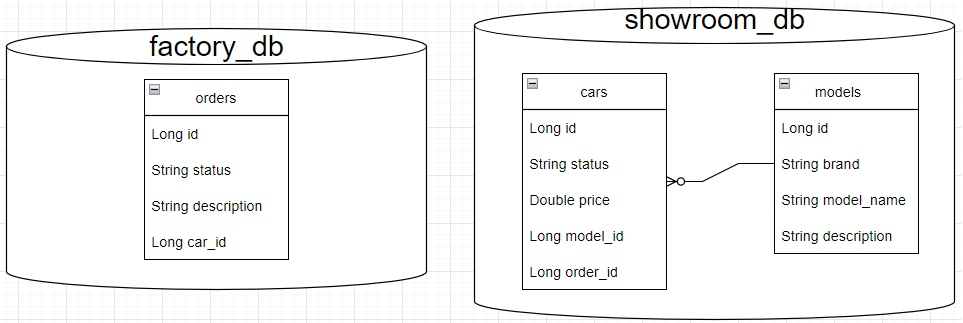
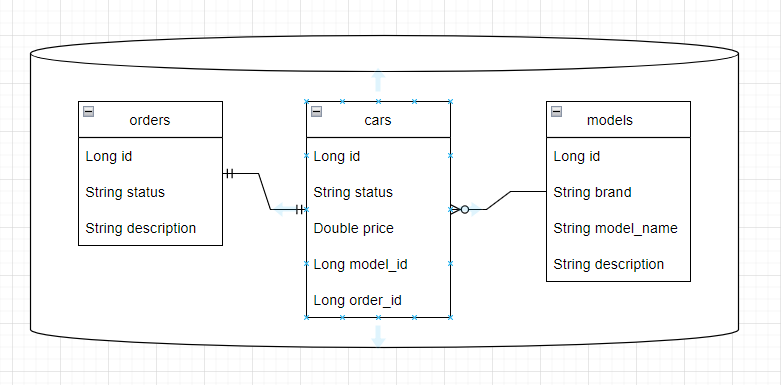
IMPORTANT_UPDATE: Two databases replaced by one, migrations removed to common module

diff --git a/factory/src/main/java/com/zuzex/factory/service/Impl/OrderServiceImpl.java b/factory/src/main/java/com/zuzex/factory/service/Impl/OrderServiceImpl.java
@@ -1,8 +1,26 @@
 package com.zuzex.factory.service.Impl;
 
+import com.zuzex.factory.model.Order;
 import com.zuzex.factory.service.OrderService;
+import org.springframework.stereotype.Service;
 
+import java.util.List;
+
+@Service
 public class OrderServiceImpl implements OrderService {
 
+    @Override
+    public List<Order> findAll() {
+        return null;
+    }
 
+    @Override
+    public Order assembleCar(Long orderId) {
+        return null;
+    }
+
+    @Override
+    public Order deliverCar(Long orderId) {
+        return null;
+    }
 }

diff --git a/factory/src/main/java/com/zuzex/factory/controller/OrderController.java b/factory/src/main/java/com/zuzex/factory/controller/OrderController.java
@@ -23,12 +23,12 @@ public class OrderController {
         return orderService.findAll();
     }
 
-    @PostMapping("/{orderId}")
+    @PostMapping("/assemble/{orderId}")
     public Order assembleCar(@PathVariable Long orderId) {
         return orderService.assembleCar(orderId);
     }
 
-    @PostMapping("/{orderId}")
+    @PostMapping("/deliver/{orderId}")
     public Order deliverCar(@PathVariable Long orderId) {
         return orderService.deliverCar(orderId);
     }

diff --git a/car-showroom/src/main/java/com/zuzex/carshowroom/service/Impl/ModelServiceImpl.java b/car-showroom/src/main/java/com/zuzex/carshowroom/service/Impl/ModelServiceImpl.java
@@ -5,8 +5,8 @@ import com.zuzex.carshowroom.repository.ModelRepository;
 import com.zuzex.carshowroom.service.ModelService;
 import com.zuzex.common.dto.ModelDto;
 import com.zuzex.common.exception.NotFoundException;
-import liquibase.repackaged.org.apache.commons.collections4.IterableUtils;
 import lombok.RequiredArgsConstructor;
+import org.apache.commons.collections4.IterableUtils;
 import org.springframework.stereotype.Service;
 
 import java.util.List;

diff --git a/car-showroom/src/main/java/com/zuzex/carshowroom/service/Impl/CarServiceImpl.java b/car-showroom/src/main/java/com/zuzex/carshowroom/service/Impl/CarServiceImpl.java
@@ -5,8 +5,8 @@ import com.zuzex.carshowroom.repository.CarRepository;
 import com.zuzex.carshowroom.service.CarService;
 import com.zuzex.common.dto.CarDto;
 import com.zuzex.common.exception.NotFoundException;
-import liquibase.repackaged.org.apache.commons.collections4.IterableUtils;
 import lombok.RequiredArgsConstructor;
+import org.apache.commons.collections4.IterableUtils;
 import org.springframework.stereotype.Service;
 
 import java.util.List;
